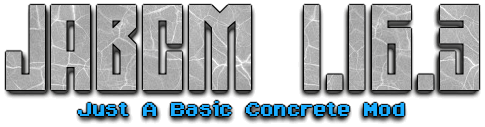
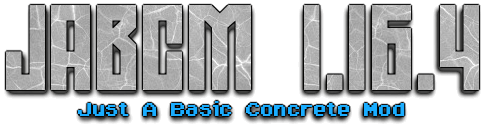
Updated Branding

Changed region(s): [[0.8969, 0.0236, 0.9588, 0.7795]]

diff --git a/src/main/java/rz/mod/jabcm/Main.java b/src/main/java/rz/mod/jabcm/Main.java
@@ -17,7 +17,7 @@ public class Main
 {
     private static final Logger LOGGER = LogManager.getLogger();
     public static final String MOD_ID = "jabcm";
-    public static final String VERSION = "0.0.5-1.16.3";
+    public static final String VERSION = "1.16.4-0.0.5";
 
     public Main()
     {
